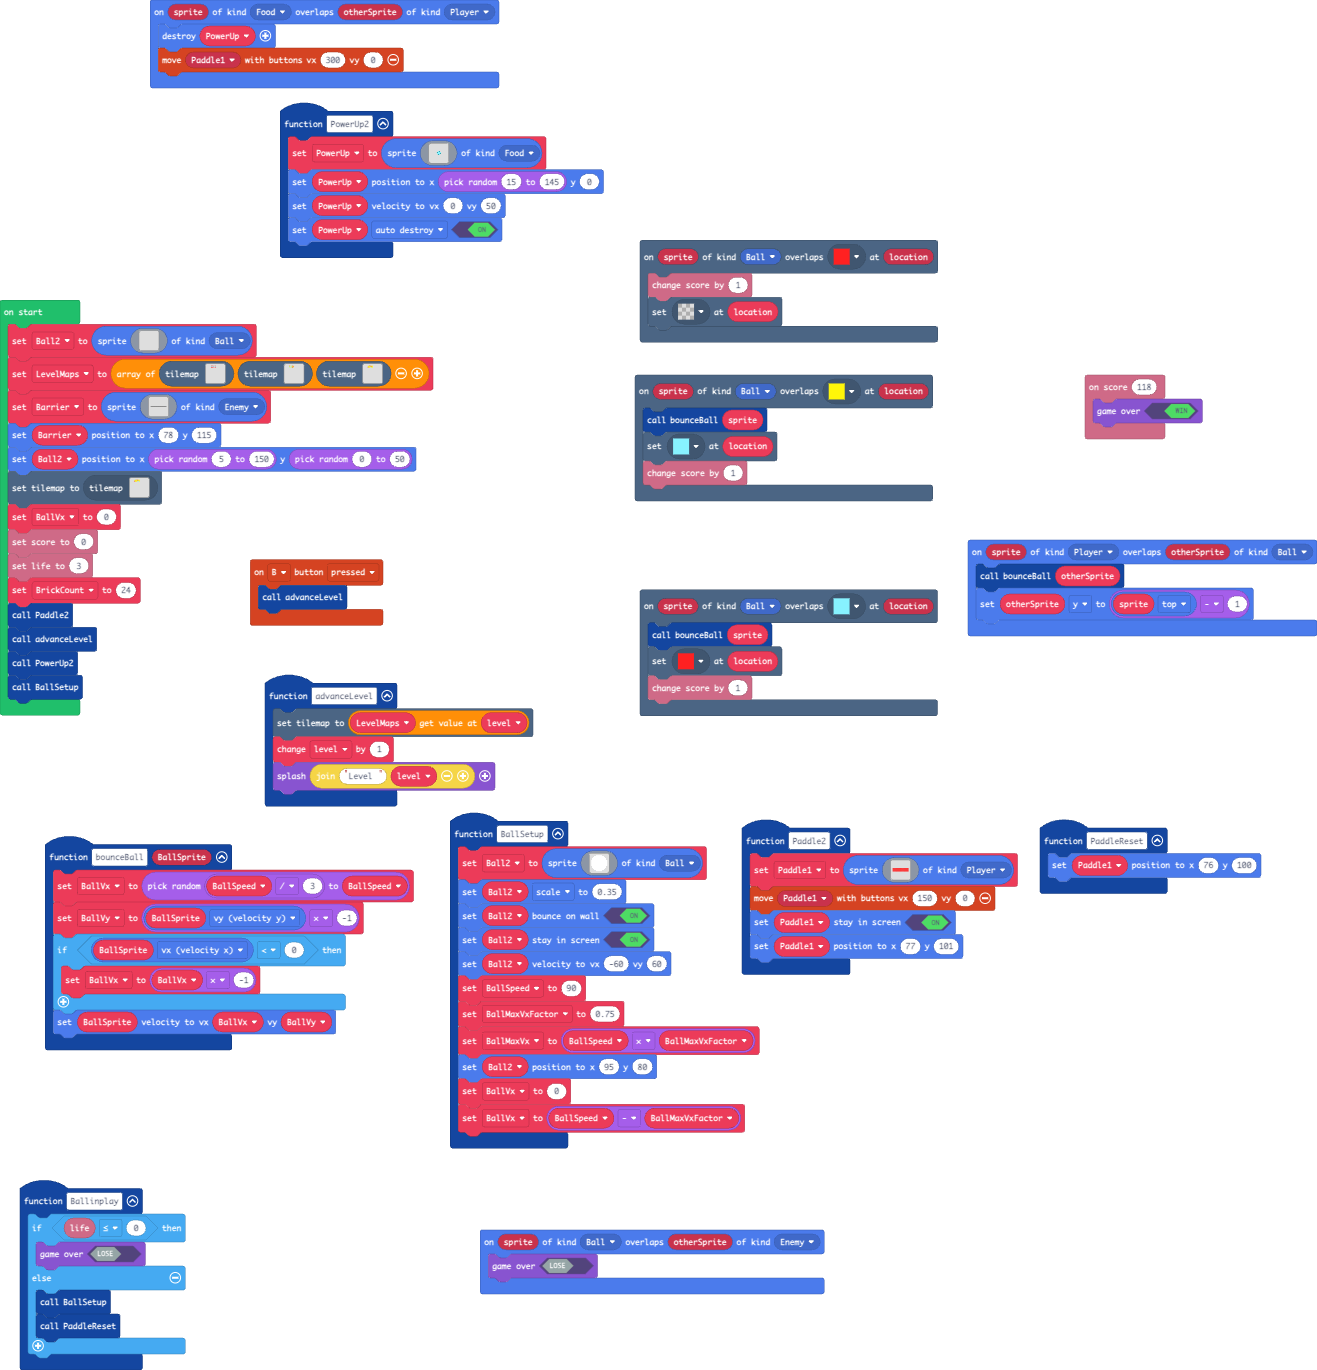
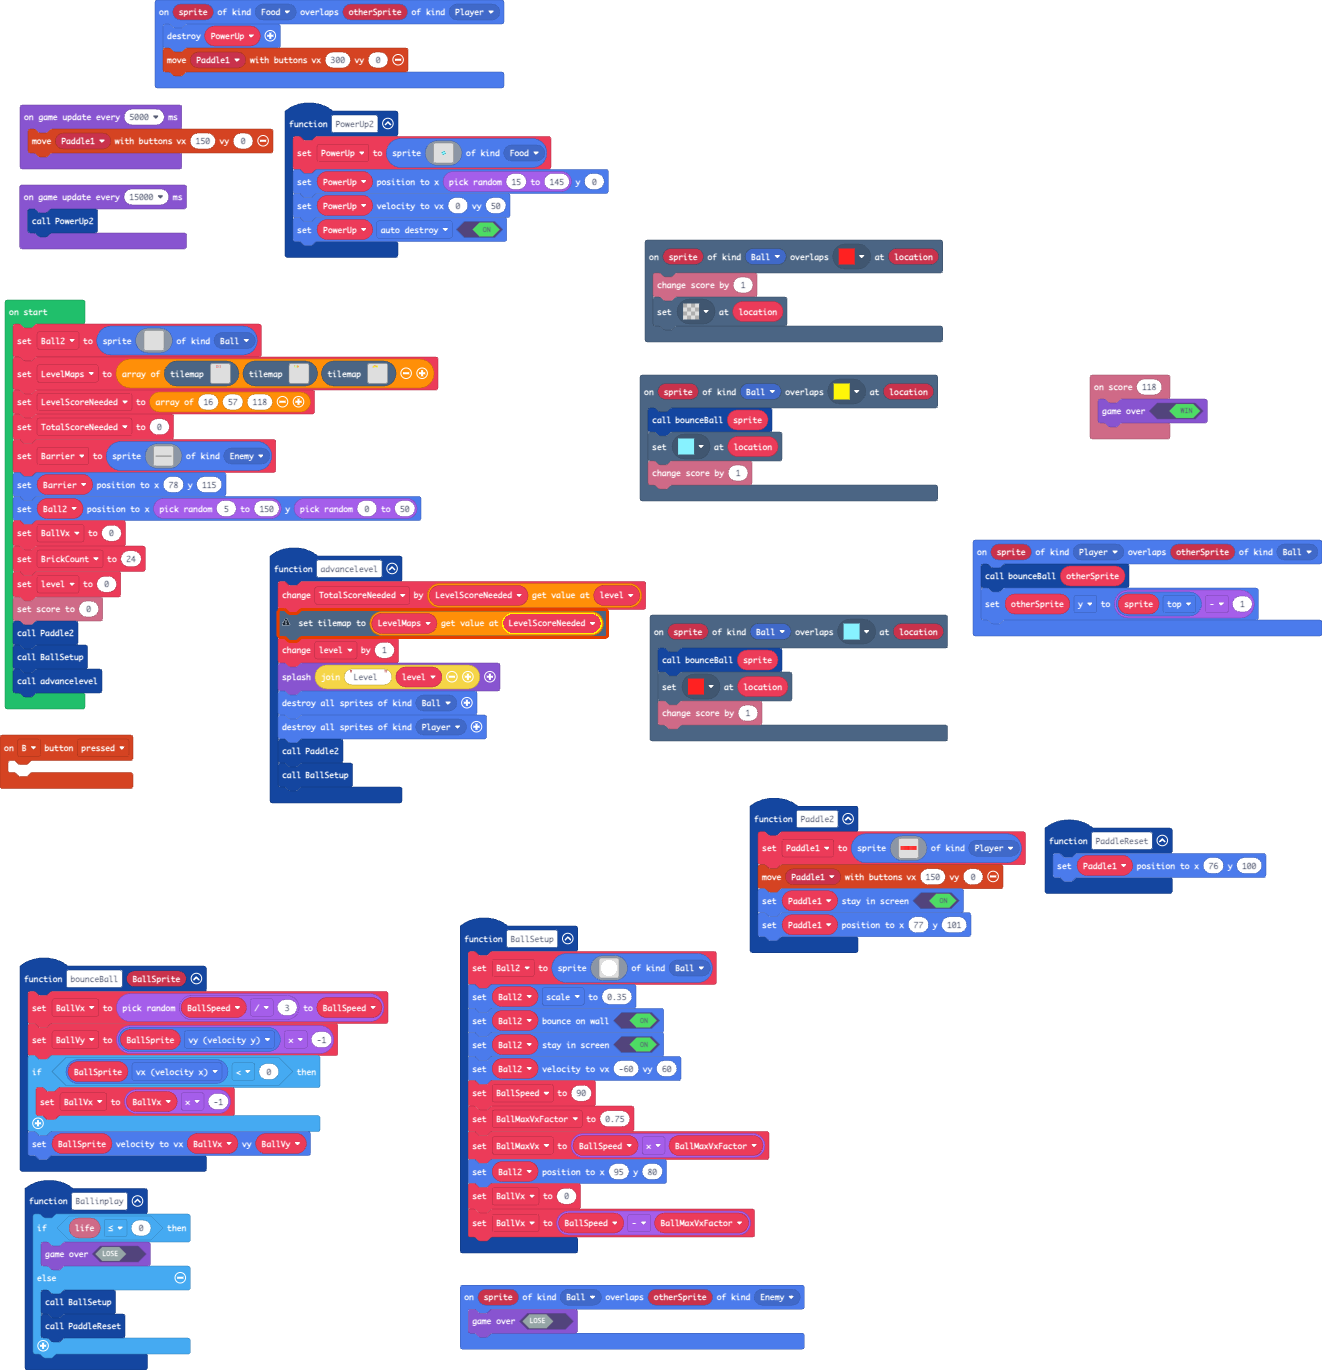
Update main.blocks, main.ts, tilemap.g.jres, tilemap.g.ts

diff --git a/tilemap.g.ts b/tilemap.g.ts
@@ -584,6 +584,158 @@ namespace myTiles {
 . . . . . . . . . . . . . . . . 
 . . . . . . . . . . . . . . . . 
 `, [myTiles.transparency16], TileScale.Sixteen);
+            case "level31":
+            case "level31":return tiles.createTilemap(hex`1000100000000000000000000000000000000000000000000000000000000000000000000000000000000000000000000000000000000000000000000000000000000000000000000000000000000000000000000000000000000000000000000000000000000000000000000000000000000000000000000000000000000000000000000000000000000000000000000000000000000000000000000000000000000000000000000000000000000000000000000000000000000000000000000000000000000000000000000000000000000000000000000000000000000000000000000000000000000000000000000000000000000000000000000000000000000000`, img`
+. . . . . . . . . . . . . . . . 
+. . . . . . . . . . . . . . . . 
+. . . . . . . . . . . . . . . . 
+. . . . . . . . . . . . . . . . 
+. . . . . . . . . . . . . . . . 
+. . . . . . . . . . . . . . . . 
+. . . . . . . . . . . . . . . . 
+. . . . . . . . . . . . . . . . 
+. . . . . . . . . . . . . . . . 
+. . . . . . . . . . . . . . . . 
+. . . . . . . . . . . . . . . . 
+. . . . . . . . . . . . . . . . 
+. . . . . . . . . . . . . . . . 
+. . . . . . . . . . . . . . . . 
+. . . . . . . . . . . . . . . . 
+. . . . . . . . . . . . . . . . 
+`, [myTiles.transparency16], TileScale.Sixteen);
+            case "level32":
+            case "level32":return tiles.createTilemap(hex`1000100000000000000000000000000000000000000000000000000000000000000000000000000000000000000000000000000000000000000000000000000000000000000000000000000000000000000000000000000000000000000000000000000000000000000000000000000000000000000000000000000000000000000000000000000000000000000000000000000000000000000000000000000000000000000000000000000000000000000000000000000000000000000000000000000000000000000000000000000000000000000000000000000000000000000000000000000000000000000000000000000000000000000000000000000000000000`, img`
+. . . . . . . . . . . . . . . . 
+. . . . . . . . . . . . . . . . 
+. . . . . . . . . . . . . . . . 
+. . . . . . . . . . . . . . . . 
+. . . . . . . . . . . . . . . . 
+. . . . . . . . . . . . . . . . 
+. . . . . . . . . . . . . . . . 
+. . . . . . . . . . . . . . . . 
+. . . . . . . . . . . . . . . . 
+. . . . . . . . . . . . . . . . 
+. . . . . . . . . . . . . . . . 
+. . . . . . . . . . . . . . . . 
+. . . . . . . . . . . . . . . . 
+. . . . . . . . . . . . . . . . 
+. . . . . . . . . . . . . . . . 
+. . . . . . . . . . . . . . . . 
+`, [myTiles.transparency16], TileScale.Sixteen);
+            case "level33":
+            case "level33":return tiles.createTilemap(hex`1000100000000000000000000000000000000000000000000000000000000000000000000000000000000000000000000000000000000000000000000000000000000000000000000000000000000000000000000000000000000000000000000000000000000000000000000000000000000000000000000000000000000000000000000000000000000000000000000000000000000000000000000000000000000000000000000000000000000000000000000000000000000000000000000000000000000000000000000000000000000000000000000000000000000000000000000000000000000000000000000000000000000000000000000000000000000000`, img`
+. . . . . . . . . . . . . . . . 
+. . . . . . . . . . . . . . . . 
+. . . . . . . . . . . . . . . . 
+. . . . . . . . . . . . . . . . 
+. . . . . . . . . . . . . . . . 
+. . . . . . . . . . . . . . . . 
+. . . . . . . . . . . . . . . . 
+. . . . . . . . . . . . . . . . 
+. . . . . . . . . . . . . . . . 
+. . . . . . . . . . . . . . . . 
+. . . . . . . . . . . . . . . . 
+. . . . . . . . . . . . . . . . 
+. . . . . . . . . . . . . . . . 
+. . . . . . . . . . . . . . . . 
+. . . . . . . . . . . . . . . . 
+. . . . . . . . . . . . . . . . 
+`, [myTiles.transparency16], TileScale.Sixteen);
+            case "level34":
+            case "level34":return tiles.createTilemap(hex`1000100000000000000000000000000000000000000000000000000000000000000000000000000000000000000000000000000000000000000000000000000000000000000000000000000000000000000000000000000000000000000000000000000000000000000000000000000000000000000000000000000000000000000000000000000000000000000000000000000000000000000000000000000000000000000000000000000000000000000000000000000000000000000000000000000000000000000000000000000000000000000000000000000000000000000000000000000000000000000000000000000000000000000000000000000000000000`, img`
+. . . . . . . . . . . . . . . . 
+. . . . . . . . . . . . . . . . 
+. . . . . . . . . . . . . . . . 
+. . . . . . . . . . . . . . . . 
+. . . . . . . . . . . . . . . . 
+. . . . . . . . . . . . . . . . 
+. . . . . . . . . . . . . . . . 
+. . . . . . . . . . . . . . . . 
+. . . . . . . . . . . . . . . . 
+. . . . . . . . . . . . . . . . 
+. . . . . . . . . . . . . . . . 
+. . . . . . . . . . . . . . . . 
+. . . . . . . . . . . . . . . . 
+. . . . . . . . . . . . . . . . 
+. . . . . . . . . . . . . . . . 
+. . . . . . . . . . . . . . . . 
+`, [myTiles.transparency16], TileScale.Sixteen);
+            case "level35":
+            case "level35":return tiles.createTilemap(hex`1000100000000000000000000000000000000000000000000000000000000000000000000000000000000000000000000000000000000000000000000000000000000000000000000000000000000000000000000000000000000000000000000000000000000000000000000000000000000000000000000000000000000000000000000000000000000000000000000000000000000000000000000000000000000000000000000000000000000000000000000000000000000000000000000000000000000000000000000000000000000000000000000000000000000000000000000000000000000000000000000000000000000000000000000000000000000000`, img`
+. . . . . . . . . . . . . . . . 
+. . . . . . . . . . . . . . . . 
+. . . . . . . . . . . . . . . . 
+. . . . . . . . . . . . . . . . 
+. . . . . . . . . . . . . . . . 
+. . . . . . . . . . . . . . . . 
+. . . . . . . . . . . . . . . . 
+. . . . . . . . . . . . . . . . 
+. . . . . . . . . . . . . . . . 
+. . . . . . . . . . . . . . . . 
+. . . . . . . . . . . . . . . . 
+. . . . . . . . . . . . . . . . 
+. . . . . . . . . . . . . . . . 
+. . . . . . . . . . . . . . . . 
+. . . . . . . . . . . . . . . . 
+. . . . . . . . . . . . . . . . 
+`, [myTiles.transparency16], TileScale.Sixteen);
+            case "level36":
+            case "level36":return tiles.createTilemap(hex`1000100000000000000000000000000000000000000000000000000000000000000000000000000000000000000000000000000000000000000000000000000000000000000000000000000000000000000000000000000000000000000000000000000000000000000000000000000000000000000000000000000000000000000000000000000000000000000000000000000000000000000000000000000000000000000000000000000000000000000000000000000000000000000000000000000000000000000000000000000000000000000000000000000000000000000000000000000000000000000000000000000000000000000000000000000000000000`, img`
+. . . . . . . . . . . . . . . . 
+. . . . . . . . . . . . . . . . 
+. . . . . . . . . . . . . . . . 
+. . . . . . . . . . . . . . . . 
+. . . . . . . . . . . . . . . . 
+. . . . . . . . . . . . . . . . 
+. . . . . . . . . . . . . . . . 
+. . . . . . . . . . . . . . . . 
+. . . . . . . . . . . . . . . . 
+. . . . . . . . . . . . . . . . 
+. . . . . . . . . . . . . . . . 
+. . . . . . . . . . . . . . . . 
+. . . . . . . . . . . . . . . . 
+. . . . . . . . . . . . . . . . 
+. . . . . . . . . . . . . . . . 
+. . . . . . . . . . . . . . . . 
+`, [myTiles.transparency16], TileScale.Sixteen);
+            case "level37":
+            case "level37":return tiles.createTilemap(hex`1000100000000000000000000000000000000000000000000000000000000000000000000000000000000000000000000000000000000000000000000000000000000000000000000000000000000000000000000000000000000000000000000000000000000000000000000000000000000000000000000000000000000000000000000000000000000000000000000000000000000000000000000000000000000000000000000000000000000000000000000000000000000000000000000000000000000000000000000000000000000000000000000000000000000000000000000000000000000000000000000000000000000000000000000000000000000000`, img`
+. . . . . . . . . . . . . . . . 
+. . . . . . . . . . . . . . . . 
+. . . . . . . . . . . . . . . . 
+. . . . . . . . . . . . . . . . 
+. . . . . . . . . . . . . . . . 
+. . . . . . . . . . . . . . . . 
+. . . . . . . . . . . . . . . . 
+. . . . . . . . . . . . . . . . 
+. . . . . . . . . . . . . . . . 
+. . . . . . . . . . . . . . . . 
+. . . . . . . . . . . . . . . . 
+. . . . . . . . . . . . . . . . 
+. . . . . . . . . . . . . . . . 
+. . . . . . . . . . . . . . . . 
+. . . . . . . . . . . . . . . . 
+. . . . . . . . . . . . . . . . 
+`, [myTiles.transparency16], TileScale.Sixteen);
+            case "level38":
+            case "level38":return tiles.createTilemap(hex`1000100000000000000000000000000000000000000000000000000000000000000000000000000000000000000000000000000000000000000000000000000000000000000000000000000000000000000000000000000000000000000000000000000000000000000000000000000000000000000000000000000000000000000000000000000000000000000000000000000000000000000000000000000000000000000000000000000000000000000000000000000000000000000000000000000000000000000000000000000000000000000000000000000000000000000000000000000000000000000000000000000000000000000000000000000000000000`, img`
+. . . . . . . . . . . . . . . . 
+. . . . . . . . . . . . . . . . 
+. . . . . . . . . . . . . . . . 
+. . . . . . . . . . . . . . . . 
+. . . . . . . . . . . . . . . . 
+. . . . . . . . . . . . . . . . 
+. . . . . . . . . . . . . . . . 
+. . . . . . . . . . . . . . . . 
+. . . . . . . . . . . . . . . . 
+. . . . . . . . . . . . . . . . 
+. . . . . . . . . . . . . . . . 
+. . . . . . . . . . . . . . . . 
+. . . . . . . . . . . . . . . . 
+. . . . . . . . . . . . . . . . 
+. . . . . . . . . . . . . . . . 
+. . . . . . . . . . . . . . . . 
+`, [myTiles.transparency16], TileScale.Sixteen);
         }
         return null;
     })

diff --git a/main.ts b/main.ts
@@ -32,17 +32,12 @@ function BallSetup () {
     BallVx = 0
     BallVx = BallSpeed - BallMaxVxFactor
 }
-function advanceLevel () {
-    tiles.setCurrentTilemap(LevelMaps[level])
-    level += 1
-    game.splash("Level " + level)
-}
 sprites.onOverlap(SpriteKind.Player, SpriteKind.Ball, function (sprite, otherSprite) {
     bounceBall(otherSprite)
     otherSprite.y = sprite.top - 1
 })
 controller.B.onEvent(ControllerButtonEvent.Pressed, function () {
-    advanceLevel()
+	
 })
 scene.onOverlapTile(SpriteKind.Ball, assets.tile`myTile2`, function (sprite, location) {
     info.changeScoreBy(1)
@@ -99,6 +94,16 @@ function PowerUp2 () {
     PowerUp.setVelocity(0, 50)
     PowerUp.setFlag(SpriteFlag.AutoDestroy, true)
 }
+function advancelevel () {
+    TotalScoreNeeded += LevelScoreNeeded[level]
+    tiles.setCurrentTilemap(LevelMaps[LevelScoreNeeded])
+    level += 1
+    game.splash("Level " + level)
+    sprites.destroyAllSpritesOfKind(SpriteKind.Ball)
+    sprites.destroyAllSpritesOfKind(SpriteKind.Player)
+    Paddle2()
+    BallSetup()
+}
 info.onScore(118, function () {
     game.gameOver(true)
 })
@@ -124,11 +129,12 @@ function Paddle2 () {
 let PowerUp: Sprite = null
 let Paddle1: Sprite = null
 let BallVy = 0
-let level = 0
 let BallMaxVx = 0
 let BallMaxVxFactor = 0
 let BallSpeed = 0
+let level = 0
 let BallVx = 0
+let LevelScoreNeeded: number[] = []
 let LevelMaps: tiles.TileMapData[] = []
 let Ball2: Sprite = null
 Ball2 = sprites.create(img`
@@ -150,6 +156,8 @@ Ball2 = sprites.create(img`
     . . . . . . . . . . . . . . . . 
     `, SpriteKind.Ball)
 LevelMaps = [tilemap`level13`, tilemap`level0`, tilemap`level14`]
+LevelScoreNeeded = [16, 57, 118]
+let TotalScoreNeeded = 0
 let Barrier = sprites.create(img`
     ........................................................................................................................................................................................................
     ........................................................................................................................................................................................................
@@ -170,12 +178,16 @@ let Barrier = sprites.create(img`
     `, SpriteKind.Enemy)
 Barrier.setPosition(78, 115)
 Ball2.setPosition(randint(5, 150), randint(0, 50))
-tiles.setCurrentTilemap(tilemap`level14`)
 BallVx = 0
-info.setScore(0)
-info.setLife(3)
 let BrickCount = 24
+level = 0
+info.setScore(0)
 Paddle2()
-advanceLevel()
-PowerUp2()
 BallSetup()
+advancelevel()
+game.onUpdateInterval(5000, function () {
+    controller.moveSprite(Paddle1, 150, 0)
+})
+game.onUpdateInterval(15000, function () {
+    PowerUp2()
+})
